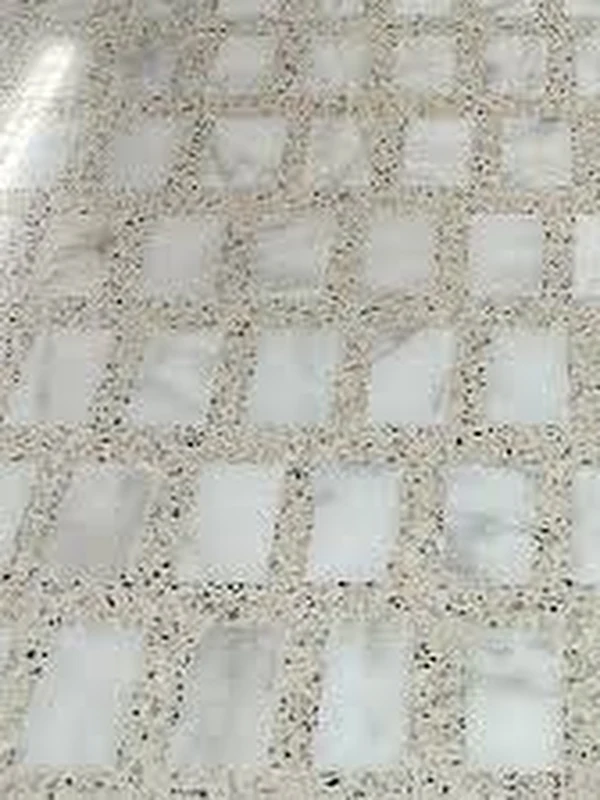
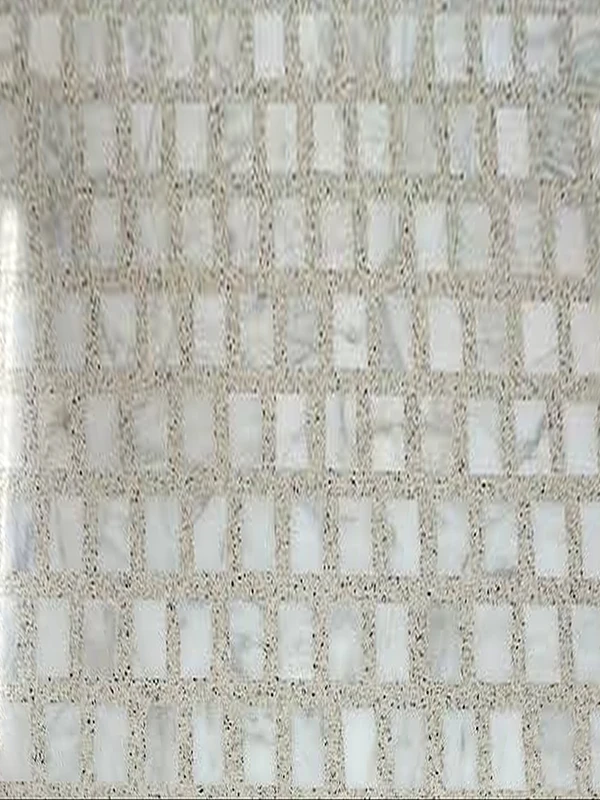
Wszystkie zdjęcia okolicy; ostrzejsze lastryko (#36)
- Slider okolicy: 16 zdjęć Rafała Tomczyka (było 8), poprawione podpisy,
  pionowe zdjęcie kadrowane na środek budynku
- Lastryko: większy, wyprostowany fragment zdjęcia (mniej powiększenia),
  opis dopasowany do wzoru z marmurowymi płytkami

Claude-Session: https://claude.ai/code/session_01JqTzECbEDLjSdFDYMQNNHw

diff --git a/index.html b/index.html
@@ -191,8 +191,8 @@
         <h4>Trawertyn</h4><p>Ciepły, porowaty kamień na elewacji i&nbsp;w&nbsp;strefie wellness.</p>
       </div>
       <div class="material reveal">
-        <div class="material__img"><img src="assets/img/material-lastryko.webp" alt="Lastryko z okrągłymi inkrustacjami, zbliżenie" loading="lazy"></div>
-        <h4>Lastryko</h4><p>Posadzki z&nbsp;okrągłym motywem, który prowadzi od wejścia po klatkę.</p>
+        <div class="material__img"><img src="assets/img/material-lastryko.webp" alt="Lastryko z płytkami białego marmuru, zbliżenie" loading="lazy"></div>
+        <h4>Lastryko</h4><p>Jasne posadzki z&nbsp;drobnym kruszywem i&nbsp;osadzonymi płytkami białego marmuru.</p>
       </div>
       <div class="material reveal">
         <div class="material__img"><img src="assets/img/material-orzech.webp" alt="Drewniany kasetonowy sufit, zbliżenie" loading="lazy"></div>
@@ -464,18 +464,26 @@
       <div class="arch-slider__track">
         <button type="button" class="arch-slider__arrow arch-slider__arrow--prev" data-dir="prev" aria-label="Poprzednie zdjęcie"><svg viewBox="0 0 24 24"><path d="M15 5l-7 7 7 7"/></svg></button>
         <button type="button" class="arch-slider__arrow arch-slider__arrow--next" data-dir="next" aria-label="Następne zdjęcie"><svg viewBox="0 0 24 24"><path d="M9 5l7 7-7 7"/></svg></button>
-        <figure class="arch-slide is-on" role="group" aria-roledescription="slajd" aria-label="1 z 8: Modernistyczna kamienica przy parku"><img src="assets/img/okolica/kamienica-przy-parku.webp" alt="Modernistyczna kamienica przy parku" loading="lazy" data-lightbox="Modernistyczna kamienica przy parku"></figure>
-        <figure class="arch-slide" role="group" aria-roledescription="slajd" aria-label="2 z 8: Jesienna aleja w parku" aria-hidden="true"><img src="assets/img/okolica/aleja-w-parku.webp" alt="Jesienna aleja w parku" loading="lazy" data-lightbox="Jesienna aleja w parku"></figure>
-        <figure class="arch-slide" role="group" aria-roledescription="slajd" aria-label="3 z 8: Gmach przy ul. Narutowicza" aria-hidden="true"><img src="assets/img/okolica/gmach-narutowicza.webp" alt="Gmach przy ul. Narutowicza" loading="lazy" data-lightbox="Gmach przy ul. Narutowicza"></figure>
-        <figure class="arch-slide" role="group" aria-roledescription="slajd" aria-label="4 z 8: Wejście Narutowicza 75C" aria-hidden="true"><img src="assets/img/okolica/narutowicza-75c.webp" alt="Wejście Narutowicza 75C" loading="lazy" data-lightbox="Wejście Narutowicza 75C"></figure>
-        <figure class="arch-slide" role="group" aria-roledescription="slajd" aria-label="5 z 8: Kopuła wśród jesiennych drzew" aria-hidden="true"><img src="assets/img/okolica/kopula.webp" alt="Kopuła wśród jesiennych drzew" loading="lazy" data-lightbox="Kopuła wśród jesiennych drzew"></figure>
-        <figure class="arch-slide" role="group" aria-roledescription="slajd" aria-label="6 z 8: Modernistyczny portal" aria-hidden="true"><img src="assets/img/okolica/portal.webp" alt="Modernistyczny portal" loading="lazy" data-lightbox="Modernistyczny portal"></figure>
-        <figure class="arch-slide" role="group" aria-roledescription="slajd" aria-label="7 z 8: Wieża z zegarem w porannym słońcu" aria-hidden="true"><img src="assets/img/okolica/wieza-z-zegarem.webp" alt="Wieża z zegarem w porannym słońcu" loading="lazy" data-lightbox="Wieża z zegarem w porannym słońcu"></figure>
-        <figure class="arch-slide" role="group" aria-roledescription="slajd" aria-label="8 z 8: Narutowicza nocą" aria-hidden="true"><img src="assets/img/okolica/narutowicza-noca.webp" alt="Narutowicza nocą" loading="lazy" data-lightbox="Narutowicza nocą"></figure>
+        <figure class="arch-slide is-on" role="group" aria-roledescription="slajd" aria-label="1 z 16: Modernistyczna kamienica przy parku"><img src="assets/img/okolica/kamienica-przy-parku.webp" alt="Modernistyczna kamienica przy parku" loading="lazy" data-lightbox="Modernistyczna kamienica przy parku"></figure>
+        <figure class="arch-slide" role="group" aria-roledescription="slajd" aria-label="2 z 16: Jesienna aleja w parku" aria-hidden="true"><img src="assets/img/okolica/aleja-w-parku.webp" alt="Jesienna aleja w parku" loading="lazy" data-lightbox="Jesienna aleja w parku"></figure>
+        <figure class="arch-slide" role="group" aria-roledescription="slajd" aria-label="3 z 16: Gmach przy ul. Narutowicza" aria-hidden="true"><img src="assets/img/okolica/gmach-narutowicza.webp" alt="Gmach przy ul. Narutowicza" loading="lazy" data-lightbox="Gmach przy ul. Narutowicza"></figure>
+        <figure class="arch-slide" role="group" aria-roledescription="slajd" aria-label="4 z 16: Wejście Narutowicza 75C" aria-hidden="true"><img src="assets/img/okolica/narutowicza-75c.webp" alt="Wejście Narutowicza 75C" loading="lazy" data-lightbox="Wejście Narutowicza 75C"></figure>
+        <figure class="arch-slide" role="group" aria-roledescription="slajd" aria-label="5 z 16: Wieża z zegarem w porannym słońcu" aria-hidden="true"><img src="assets/img/okolica/wieza-z-zegarem.webp" alt="Wieża z zegarem w porannym słońcu" loading="lazy" data-lightbox="Wieża z zegarem w porannym słońcu"></figure>
+        <figure class="arch-slide" role="group" aria-roledescription="slajd" aria-label="6 z 16: Brukowana alejka w parku" aria-hidden="true"><img src="assets/img/okolica/brukowana-alejka.webp" alt="Brukowana alejka w parku" loading="lazy" data-lightbox="Brukowana alejka w parku"></figure>
+        <figure class="arch-slide" role="group" aria-roledescription="slajd" aria-label="7 z 16: Modernistyczny gmach w jesiennym świetle" aria-hidden="true"><img src="assets/img/okolica/gmach-jesienia.webp" alt="Modernistyczny gmach w jesiennym świetle" loading="lazy" data-lightbox="Modernistyczny gmach w jesiennym świetle"></figure>
+        <figure class="arch-slide" role="group" aria-roledescription="slajd" aria-label="8 z 16: Kopuła wśród jesiennych drzew" aria-hidden="true"><img src="assets/img/okolica/kopula.webp" alt="Kopuła wśród jesiennych drzew" loading="lazy" data-lightbox="Kopuła wśród jesiennych drzew"></figure>
+        <figure class="arch-slide" role="group" aria-roledescription="slajd" aria-label="9 z 16: Zielona uliczka w sąsiedztwie" aria-hidden="true"><img src="assets/img/okolica/zielona-uliczka.webp" alt="Zielona uliczka w sąsiedztwie" loading="lazy" data-lightbox="Zielona uliczka w sąsiedztwie"></figure>
+        <figure class="arch-slide" role="group" aria-roledescription="slajd" aria-label="10 z 16: Ceramiczna elewacja z wykuszem" aria-hidden="true"><img src="assets/img/okolica/wykusz.webp" alt="Ceramiczna elewacja z wykuszem" loading="lazy" data-lightbox="Ceramiczna elewacja z wykuszem"></figure>
+        <figure class="arch-slide" role="group" aria-roledescription="slajd" aria-label="11 z 16: Fasada wśród złotych liści" aria-hidden="true"><img src="assets/img/okolica/fasada-zlote-liscie.webp" alt="Fasada wśród złotych liści" loading="lazy" data-lightbox="Fasada wśród złotych liści"></figure>
+        <figure class="arch-slide" role="group" aria-roledescription="slajd" aria-label="12 z 16: Owalny gmach przy skrzyżowaniu" aria-hidden="true"><img src="assets/img/okolica/owalny-gmach.webp" alt="Owalny gmach przy skrzyżowaniu" loading="lazy" data-lightbox="Owalny gmach przy skrzyżowaniu"></figure>
+        <figure class="arch-slide" role="group" aria-roledescription="slajd" aria-label="13 z 16: Modernistyczny portal" aria-hidden="true"><img src="assets/img/okolica/portal.webp" alt="Modernistyczny portal" loading="lazy" data-lightbox="Modernistyczny portal"></figure>
+        <figure class="arch-slide arch-slide--tall" role="group" aria-roledescription="slajd" aria-label="14 z 16: Dawne i nowe: kamienica i biurowiec" aria-hidden="true"><img src="assets/img/okolica/dawne-i-nowe.webp" alt="Dawne i nowe: kamienica i biurowiec" loading="lazy" data-lightbox="Dawne i nowe: kamienica i biurowiec"></figure>
+        <figure class="arch-slide" role="group" aria-roledescription="slajd" aria-label="15 z 16: Uliczka o zmierzchu" aria-hidden="true"><img src="assets/img/okolica/uliczka-o-zmierzchu.webp" alt="Uliczka o zmierzchu" loading="lazy" data-lightbox="Uliczka o zmierzchu"></figure>
+        <figure class="arch-slide" role="group" aria-roledescription="slajd" aria-label="16 z 16: Narutowicza nocą" aria-hidden="true"><img src="assets/img/okolica/narutowicza-noca.webp" alt="Narutowicza nocą" loading="lazy" data-lightbox="Narutowicza nocą"></figure>
       </div>
       <div class="arch-slider__bar">
-        <div class="arch-slider__cap"><span class="caps" data-cap>Modernistyczna kamienica przy parku</span><span class="caps bronze" data-num>01 / 08</span><span class="okolica__credit">fot. Rafał Tomczyk</span></div>
-        <div class="arch-slider__dots" role="tablist" aria-label="Wybierz zdjęcie"><button type="button" role="tab" aria-label="Modernistyczna kamienica przy parku" aria-selected="true" data-i="0"><i></i></button><button type="button" role="tab" aria-label="Jesienna aleja w parku" aria-selected="false" data-i="1"><i></i></button><button type="button" role="tab" aria-label="Gmach przy ul. Narutowicza" aria-selected="false" data-i="2"><i></i></button><button type="button" role="tab" aria-label="Wejście Narutowicza 75C" aria-selected="false" data-i="3"><i></i></button><button type="button" role="tab" aria-label="Kopuła wśród jesiennych drzew" aria-selected="false" data-i="4"><i></i></button><button type="button" role="tab" aria-label="Modernistyczny portal" aria-selected="false" data-i="5"><i></i></button><button type="button" role="tab" aria-label="Wieża z zegarem w porannym słońcu" aria-selected="false" data-i="6"><i></i></button><button type="button" role="tab" aria-label="Narutowicza nocą" aria-selected="false" data-i="7"><i></i></button></div>
+        <div class="arch-slider__cap"><span class="caps" data-cap>Modernistyczna kamienica przy parku</span><span class="caps bronze" data-num>01 / 16</span><span class="okolica__credit">fot. Rafał Tomczyk</span></div>
+        <div class="arch-slider__dots arch-slider__dots--many" role="tablist" aria-label="Wybierz zdjęcie"><button type="button" role="tab" aria-label="Modernistyczna kamienica przy parku" aria-selected="true" data-i="0"><i></i></button><button type="button" role="tab" aria-label="Jesienna aleja w parku" aria-selected="false" data-i="1"><i></i></button><button type="button" role="tab" aria-label="Gmach przy ul. Narutowicza" aria-selected="false" data-i="2"><i></i></button><button type="button" role="tab" aria-label="Wejście Narutowicza 75C" aria-selected="false" data-i="3"><i></i></button><button type="button" role="tab" aria-label="Wieża z zegarem w porannym słońcu" aria-selected="false" data-i="4"><i></i></button><button type="button" role="tab" aria-label="Brukowana alejka w parku" aria-selected="false" data-i="5"><i></i></button><button type="button" role="tab" aria-label="Modernistyczny gmach w jesiennym świetle" aria-selected="false" data-i="6"><i></i></button><button type="button" role="tab" aria-label="Kopuła wśród jesiennych drzew" aria-selected="false" data-i="7"><i></i></button><button type="button" role="tab" aria-label="Zielona uliczka w sąsiedztwie" aria-selected="false" data-i="8"><i></i></button><button type="button" role="tab" aria-label="Ceramiczna elewacja z wykuszem" aria-selected="false" data-i="9"><i></i></button><button type="button" role="tab" aria-label="Fasada wśród złotych liści" aria-selected="false" data-i="10"><i></i></button><button type="button" role="tab" aria-label="Owalny gmach przy skrzyżowaniu" aria-selected="false" data-i="11"><i></i></button><button type="button" role="tab" aria-label="Modernistyczny portal" aria-selected="false" data-i="12"><i></i></button><button type="button" role="tab" aria-label="Dawne i nowe: kamienica i biurowiec" aria-selected="false" data-i="13"><i></i></button><button type="button" role="tab" aria-label="Uliczka o zmierzchu" aria-selected="false" data-i="14"><i></i></button><button type="button" role="tab" aria-label="Narutowicza nocą" aria-selected="false" data-i="15"><i></i></button></div>
         <div class="rail-nav">
           <button type="button" data-dir="prev" aria-label="Poprzednie zdjęcie"><svg viewBox="0 0 24 24"><path d="M15 5l-7 7 7 7"/></svg></button>
           <button type="button" data-dir="next" aria-label="Następne zdjęcie"><svg viewBox="0 0 24 24"><path d="M9 5l7 7-7 7"/></svg></button>

diff --git a/assets/css/style.css b/assets/css/style.css
@@ -1115,3 +1115,7 @@ a.tile { display: block; color: inherit; }
   .arka { display: block; min-height: 0; padding-bottom: 46px; overflow: hidden; }
   .arka__bg { width: 78%; right: -6%; top: 58%; opacity: .24; }
 }
+
+.arch-slide--tall img { object-position: 50% 35%; }
+.arch-slider__dots--many button { width: 22px; }
+@media (max-width: 600px) { .arch-slider__dots--many { gap: 3px; } .arch-slider__dots--many button { width: auto; } }
